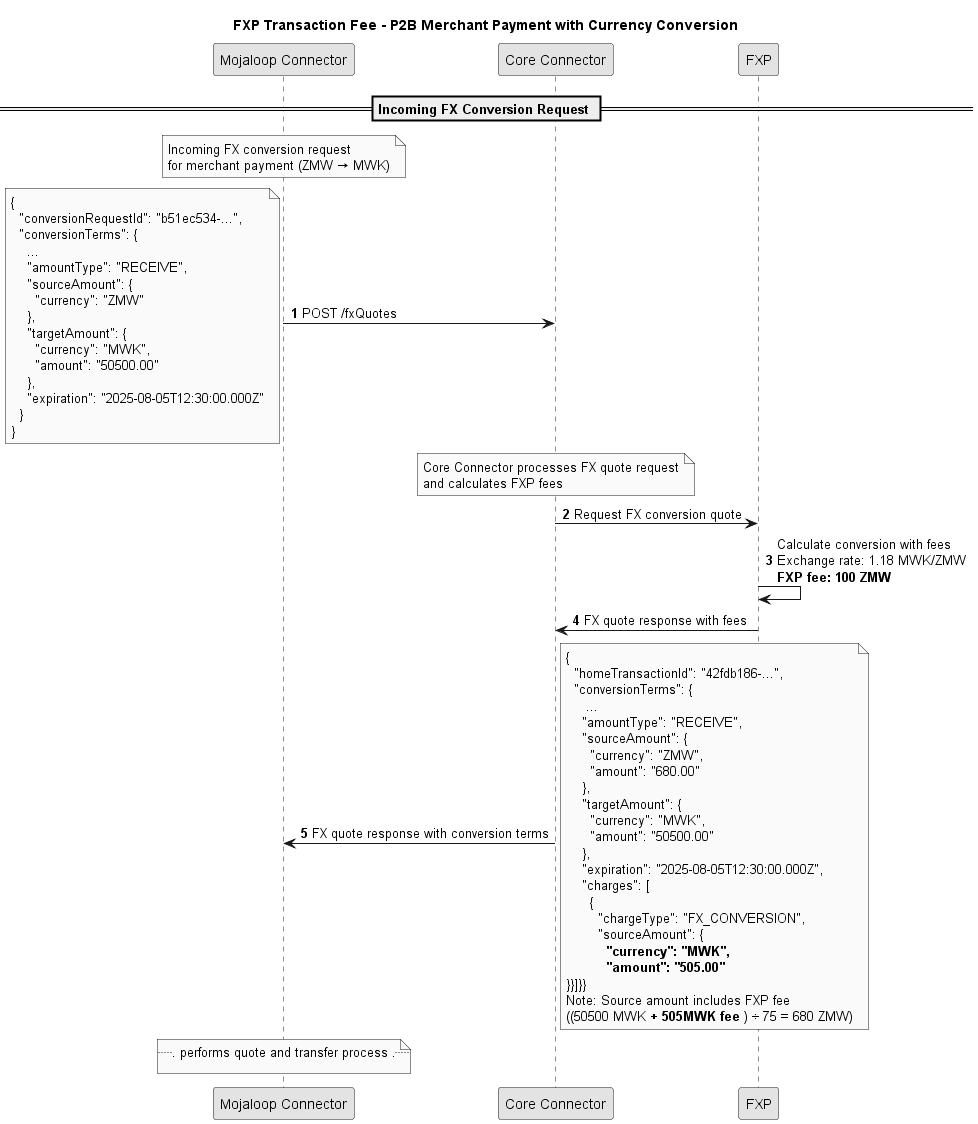
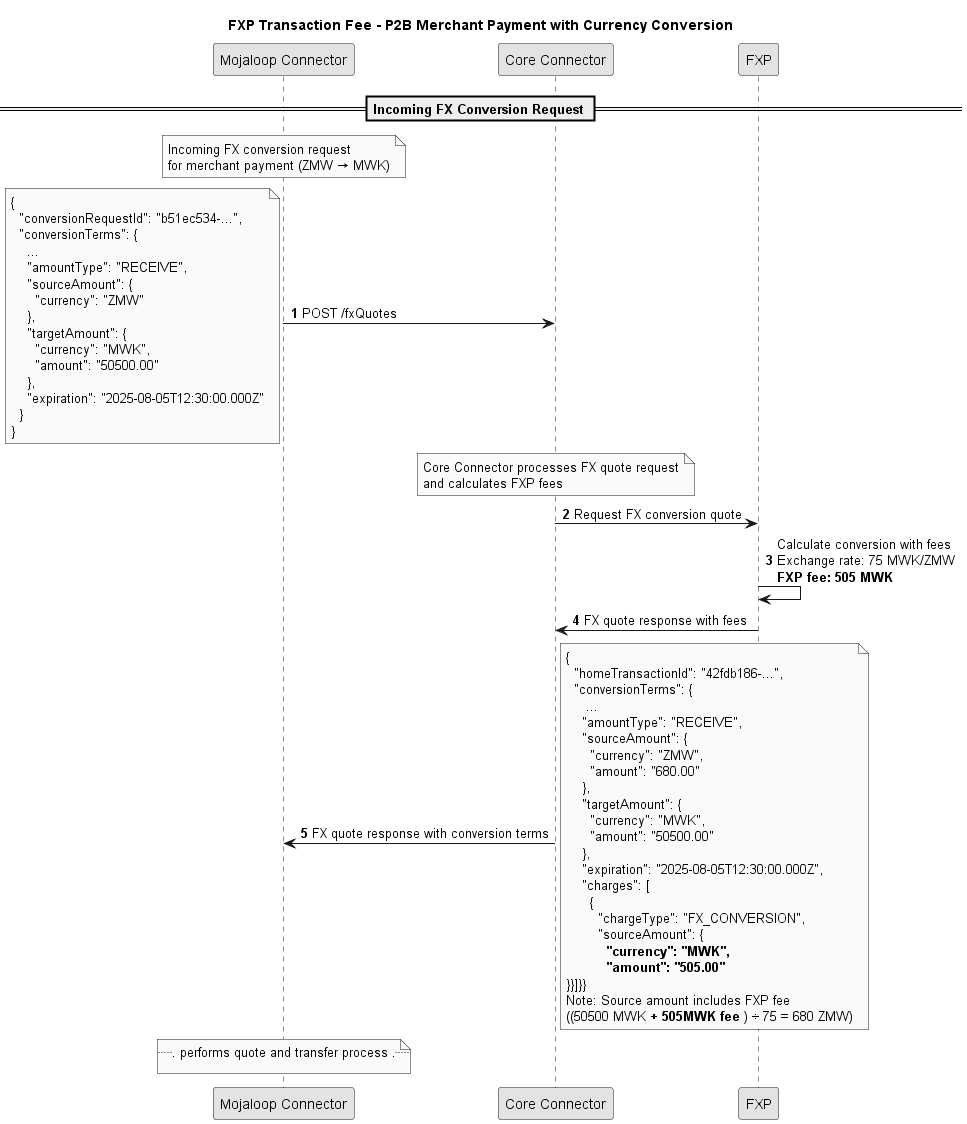
feat: Added Description of Fees and Fee Calculation

diff --git a/.vuepress/config.js b/.vuepress/config.js
@@ -81,7 +81,8 @@ export default defineUserConfig({
             // 'CoreConnectorTemplate.md',
             'CoreConnectorTestingHarness.md',
             'CoreConnectorTemplateDocs.md',
-            'ISO20022AndMerchantPayments.md'
+            'ISO20022AndMerchantPayments.md',
+            '/md-docs/fees/Fees.md'
           ]
         },
         {

diff --git a/md-docs/fees/Fees.md b/md-docs/fees/Fees.md
@@ -15,12 +15,17 @@ These are Participant Organisation Fees. I.e. all Participants in a Transaction 
 1. An FXP (Foreign Exchange Provider)
 1. A Payee DFSP
 
+### Fees charged to either the creditor or debtor 
+In the DRPP, two cross-border payment models are supported, each defining how the transaction amount and associated fees are calculated and charged:
+1. **P2P “Send Money” Transfer** <br>The transfer amount is specified in the **source currency**, representing the **amount debited from the sender’s account**. In this model, the **creditor (recipient)** bears the transaction fees. Technically, this corresponds to the FSPIOP definition ```amountType = SEND``` and the ISO 20022 ChargeBearerType1Code = CRED (```CdtTrfTxInf.ChrgBr = CRED```).
+1. **P2B “Merchant Payments”** <br> The payment amount is specified in the **target currency**, representing the **amount credited to the payee’s account.** In this model, the **debtor (payer)** bears the transaction fees, which are calculated and applied on top of the transfer amount. This aligns with the FSPIOP definition ```amountType = RECEIVE``` and the ISO 20022 ChargeBearerType1Code = DEBT (```CdtTrfTxInf.ChrgBr = DEBT```).
+
+These models define not only the direction of value transfer but also how and where transaction fees are applied within the cross-border payment process.
+
 ### Payer DFSP Transaction Fee
 This fee is not included in the DRPP messaging, as it is expected to be managed outside of DRPP.
-1. **P2P: Send Money** <br> Fees are deducted before.<br> DRPP Send Money Amount = Amount - Fee
-1. **P2B: Merchant Payment** <br> Fee is added before presenting terms to customer. <br> You will need to pay = DRPP Source Amount + Fee.
-
-Lets have a look at the detailed sequence diagrams in each of these use cases.
+1. **P2P (peer-to-peer): Send Money** <br> Fees are deducted before.<br> DRPP Send Money Amount = Amount - Fee
+1. **P2B (peer-to-business): Merchant Payment** <br> Fee is added before presenting terms to customer. <br> You will need to pay = DRPP Source Amount + Fee.
 
 ### FXP Transaction Fee
 Fees are included in the conversion terms;
@@ -30,8 +35,6 @@ I.e. They are pre-funded and settled during settlement.
 1. **P2P: Send Money** <br> Fees are included in the terms <br> Target Currency Amount = Conversion Amount - Fee
 1. **P2B: Merchant Payment** <br> Fees are included in the terms. <br> Source Currency Amount = Conversion Amount + Fee
 
-Lets have a look at the detailed sequence diagrams in each of these use cases.
-
 ### Payee DFSP Transaction Fee
 Fees are included in the transfer terms;
 that are then presented to Payer DFSP, and the Payer.
@@ -40,43 +43,93 @@ I.e. They are pre-funded and settled during settlement.
 
 1. **P2P: Send Money & P2B: Merchant Payment** <br>Fees are included in the transfer terms<br>Transfer amount = request amount + Fee
 
-Lets have a look at the detailed sequence diagrams in each of these use cases.
-
 ## Scheme specified maximum fee
 DRPP scheme has the objective of meeting the world bank and G20 targets to reduce cross border remittance fees to < 3% transferred amount.
 
 Restriction of fees are placed on participant organisations. Details of which are included in the participant agreement and scheme rules of the scheme.
 
+Next we will go through examples that shows detailed sequence diagrams to illustrate how are incorporated through participant integrations.
+
 ## P2P: Send Money Fees Example
+ The transfer amount is specified in the **source currency**, representing the **amount debited from the sender’s account**. In this model, the **creditor (recipient)** bears the transaction fees. Technically, this corresponds to the FSPIOP definition ```amountType = SEND``` and the ISO 20022 ChargeBearerType1Code = CRED (```CdtTrfTxInf.ChrgBr = CRED```).
 Here is an end-to-end example of how fees are calculated for all participant organisations using a P2P or Send Money scenario.
 
 ![P2P_Fees_Example](./SequenceDiagram/P2PExample.png)
 The Payer initiates a transfer of 500 ZMW to the Payee. The Payer DFSP charges a 1% fee (5 ZMW), leaving 495 ZMW for conversion. The FXP converts the remaining 495 ZMW to MWK at an exchange rate of 75, resulting in 37,125 MWK. The FXP then deducts their 1% fee (371 MWK), leaving 36,754 MWK for the Payee DFSP. Finally, the Payee DFSP applies their 1% fee (367 MWK), and the Payee receives 36,387 MWK.
 
 Let's examine the message sequences that illustrate how this example impacts the messages being transmitted.
-### P2P: Payer DFSP agreement
+### P2P: Payer DFSP - Agreement of terms phase
+- Payer Sends 500 ZMW
+- Less Payer DFSP Fee of 5 ZMW
+- Payer DFSP sends 495 ZMW
+
 ![P2P: Payer DFSP agreement](./SequenceDiagram/PayerDFSP_P2P_Fees%20-%20agreement.svg)
 
-### P2P: FXP agreement
+### P2P: FXP - Agreement of terms phase
+- FXP convers 495 ZMW to 37125 MWK
+- Less FXP fee of 371 MWK
+- FXP Proposes to Send 36754 MWK
+
 ![P2P: FXP agreement](./SequenceDiagram/FXP_P2P_Fees%20-%20agreement.svg)
 
-### P2P: Payee DFSP agreement
+### P2P: Payee DFSP - Agreement of terms phase
+- Payee DFSP proposes to deposit 36387 MWK
+- After subtracting fee of 367 MWK
+- From Send amount of 36387 MWK
+
 ![P2P: Payee DFSP agreement](./SequenceDiagram/PayeeDFSP_P2P_Fees%20-%20agreement.svg)
 
-### P2P: Payer DFSP transfer
+### P2P: Payer DFSP - Transfer phase
+The transfer phase executes the agreement of terms.
 ![P2P: Payer DFSP transfer](./SequenceDiagram/PayerDFSP_P2P_Fees%20-%20transfer.svg)
 
-### P2P: FXP transfer
+### P2P: FXP - Transfer phase
+The transfer phase executes the agreement of terms.
 ![P2P: FXP transfer](./SequenceDiagram/FXP_P2P_Fees%20-%20transfer.svg)
 
-### P2P: Payee DFSP transfer
+### P2P: Payee DFSP - Transfer phase
+The transfer phase executes the agreement of terms.
 ![P2P: Payee DFSP transfer](./SequenceDiagram/PayeeDFSP_P2P_Fees%20-%20transfer.svg)
 
 
 ## P2B: Merchant Payment Fees Example
-Here is an end-to-end example of how fees are calculated for all participant organisations using a P2B or Merchant Payment scenario.
+The payment amount is specified in the **target currency**, representing the **amount credited to the payee’s account.** In this model, the **debtor (payer)** bears the transaction fees, which are calculated and applied on top of the transfer amount. This aligns with the FSPIOP definition ```amountType = RECEIVE``` and the ISO 20022 ChargeBearerType1Code = DEBT (```CdtTrfTxInf.ChrgBr = DEBT```). Here is an end-to-end example of how fees are calculated for all participant organisations using a P2B or Merchant Payment scenario.
 
 ![P2B_Fees_Example](./SequenceDiagram/P2BExample.png)
 The Payer requests to pay the merchant 50,000 MWK (note that this amount is specified in the Payee's currency). The Payee DFSP charges a 1% fee (500 MWK), so the FXP needs to send 50,500 MWK. The FXP applies their 1% fee (505 MWK), requiring a total conversion amount of 51,005 MWK. At an exchange rate of 75, this translates to 680 ZMW needed to support the transfer. The Payer DFSP then adds their fee of 6 ZMW, meaning the Payer must pay 686 ZMW to complete this payment, while the Payee receives 50,000 MWK.
 
 Let's examine the message sequences that illustrate how this example impacts the messages being transmitted.
+
+### P2B: Payee DFSP - Agreement of terms phase
+- Payee DFSP is asked to deposit 50000 MWK
+- Payee DFSP add their fee of 500 MWK
+- Payee DFSP specifies that they require receipt of 50500 MWK
+
+![P2B: Payee DFSP agreement](./SequenceDiagram/PayeeDFSP_P2B_Fees%20-%20agreement.svg)
+
+### P2B: FXP - Agreement of terms phase
+- FXP need to convert to 50500 MWK
+- FXP fee of 505 MWK is first added
+- FXP Proposes to convert 680 ZMW to provide 51005 MWK to cover fees.
+
+![P2B: FXP agreement](./SequenceDiagram/FXP_P2B_Fees%20-%20agreement.svg)
+
+### P2B: Payer DFSP - Agreement of terms phase
+- Payer DFSP must send 680 ZMW
+- Payer DFSP add their fee of 6 ZMW
+- Payer must pay 686 ZMW 
+
+![P2B: Payer DFSP agreement](./SequenceDiagram/PayerDFSP_P2B_Fees%20-%20agreement.svg)
+
+
+### P2B: Payer DFSP - Transfer phase
+The transfer phase executes the agreement of terms.
+![P2B: Payer DFSP transfer](./SequenceDiagram/PayerDFSP_P2B_Fees%20-%20transfer.svg)
+
+### P2B: FXP - Transfer phase
+The transfer phase executes the agreement of terms.
+![P2B: FXP transfer](./SequenceDiagram/FXP_P2B_Fees%20-%20transfer.svg)
+
+### P2B: Payee DFSP - Transfer phase
+The transfer phase executes the agreement of terms.
+![P2B: Payee DFSP transfer](./SequenceDiagram/PayeeDFSP_P2B_Fees%20-%20transfer.svg)
